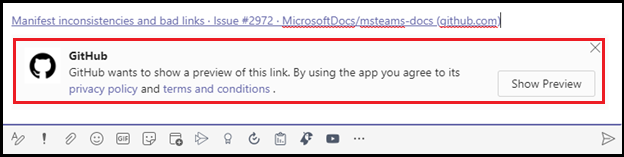
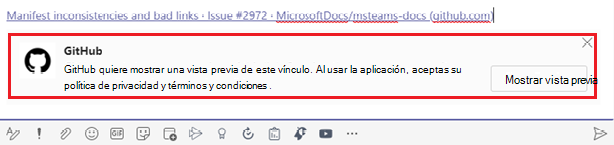
commit translated contents

Changed region(s): [[0.0, 0.0, 1.0, 1.0]]

diff --git a/msteams-platform/messaging-extensions/how-to/link-unfurling.md b/msteams-platform/messaging-extensions/how-to/link-unfurling.md
@@ -2,15 +2,15 @@
 title: Apertura de vínculos
 author: surbhigupta
 description: Aprenda a agregar la apertura de enlaces con la extensión de mensajería en una aplicación de Microsoft Teams con el manifiesto de la aplicación o manualmente usando ejemplos y ejemplos de código.
-ms.localizationpriority: high
+ms.localizationpriority: medium
 ms.topic: conceptual
 ms.author: anclear
-ms.openlocfilehash: b172320f6f116026fe5ea4b45c9c74da6ff82f07
-ms.sourcegitcommit: f15bd0e90eafb00e00cf11183b129038de8354af
+ms.openlocfilehash: 09b8447e68a07e98293409e6c371a301da3017d0
+ms.sourcegitcommit: 430bf416bb8d1b74f926c8b5d5ffd3dbb0782286
 ms.translationtype: HT
 ms.contentlocale: es-ES
-ms.lasthandoff: 04/28/2022
-ms.locfileid: "65111251"
+ms.lasthandoff: 05/10/2022
+ms.locfileid: "65297187"
 ---
 # <a name="link-unfurling"></a>Apertura de vínculos
 
@@ -25,7 +25,7 @@ En este documento se explica cómo agregar vínculos abriéndose al manifiesto d
 
 La extensión de mensajes de Azure DevOps usa la apertura de vínculos para buscar direcciones URL pegadas en el área de redacción de mensajes que apuntan a un elemento de trabajo. En la siguiente imagen, un usuario ha pegado una URL para un elemento de trabajo en Azure DevOps, que la extensión del mensaje ha resuelto en una tarjeta:
 
-![Ejemplo de apertura de vínculos](~/assets/images/compose-extensions/messagingextensions_linkunfurling.png)
+:::image type="content" source="~/assets/images/compose-extensions/messagingextensions_linkunfurling.png" alt-text="Ejemplo de apertura de vínculos":::
 
 ## <a name="add-link-unfurling-to-your-app-manifest"></a>Agregue el enlace que se abre al manifiesto de su aplicación
 
@@ -40,7 +40,7 @@ Para agregar una apertura de enlace al manifiesto de la aplicación, agregue una
 1. Cargue el manifiesto de la aplicación.
 1. En la página **Extensión de mensaje**, agregue el dominio que desea buscar en la sección **Controladores de mensajes**. En la imagen siguiente se explica el proceso:
 
-    ![sección controladores de mensajes en App Studio](~/assets/images/link-unfurling.png)
+    :::image type="content" source="~/assets/images/link-unfurling.png" alt-text="Sección Controladores de mensajes en App Studio":::
 
 ### <a name="add-link-unfurling-manually"></a>Agregar la apertura de vínculos manualmente
 

diff --git a/msteams-platform/messaging-extensions/how-to/action-commands/define-action-command.md b/msteams-platform/messaging-extensions/how-to/action-commands/define-action-command.md
@@ -2,15 +2,15 @@
 title: Definir comandos de acción de extensión de mensajería
 author: surbhigupta
 description: Información general sobre los comandos de acción de extensión de mensajería con el ejemplo de manifiesto de aplicación
-ms.localizationpriority: high
+ms.localizationpriority: medium
 ms.topic: conceptual
 ms.author: anclear
-ms.openlocfilehash: 9a39b01f7ccbf45e33be89aef4411e1d2fba8108
-ms.sourcegitcommit: 591bab4c7e01ac9099b9a540f149b64e6e31e6e8
+ms.openlocfilehash: 7793563db7a3e2d4f3b5b780cadac22ae609c74d
+ms.sourcegitcommit: 430bf416bb8d1b74f926c8b5d5ffd3dbb0782286
 ms.translationtype: HT
 ms.contentlocale: es-ES
-ms.lasthandoff: 04/29/2022
-ms.locfileid: "65135748"
+ms.lasthandoff: 05/10/2022
+ms.locfileid: "65297215"
 ---
 # <a name="define-message-extension-action-commands"></a>Definir comandos de acción de extensión de mensajería
 
@@ -78,7 +78,7 @@ Para agregar el comando de acción al manifiesto de la aplicación, debe agregar
 Puede crear un comando de acción mediante **App Studio** o **Portal para desarrolladores**.
 
 > [!NOTE]
- > Si ha estado usando App Studio, le recomendamos que pruebe el portal para desarrolladores [Portal para desarrolladores](https://dev.teams.microsoft.com/) para configurar, distribuir y administrar las aplicaciones de Teams. App Studio quedará en desuso a partir del 30 de junio de 2022.
+ > Si ha estado usando App Studio, le recomendamos que pruebe el portal para desarrolladores [Portal para desarrolladores](https://dev.teams.microsoft.com/) para configurar, distribuir y administrar las aplicaciones de Teams. App Studio quedará obsoleto a partir del 30 de junio de 2022.
 
 # <a name="app-studio"></a>[App Studio](#tab/AS)
 
